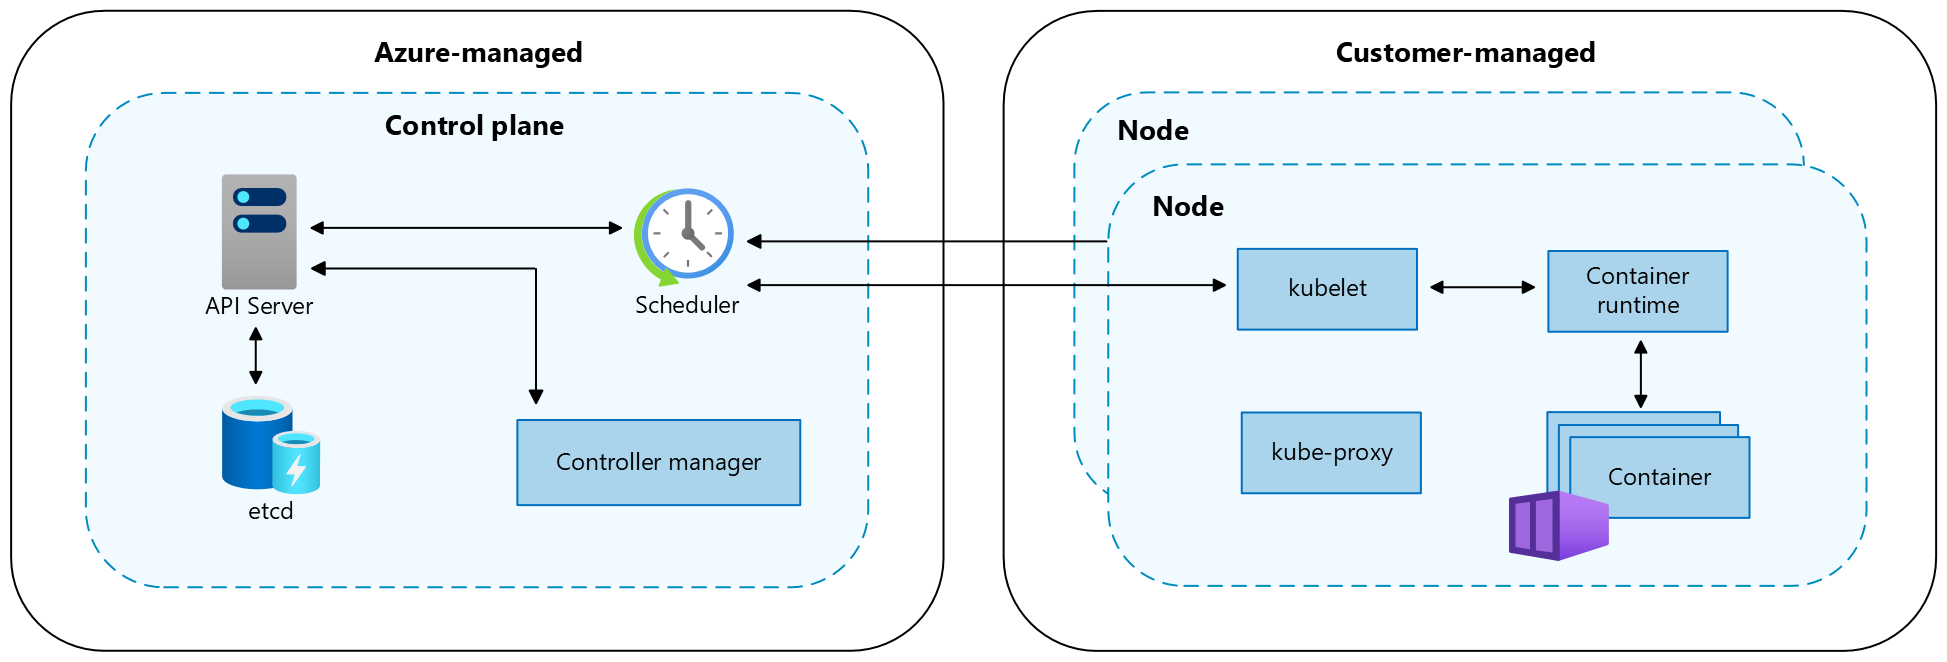
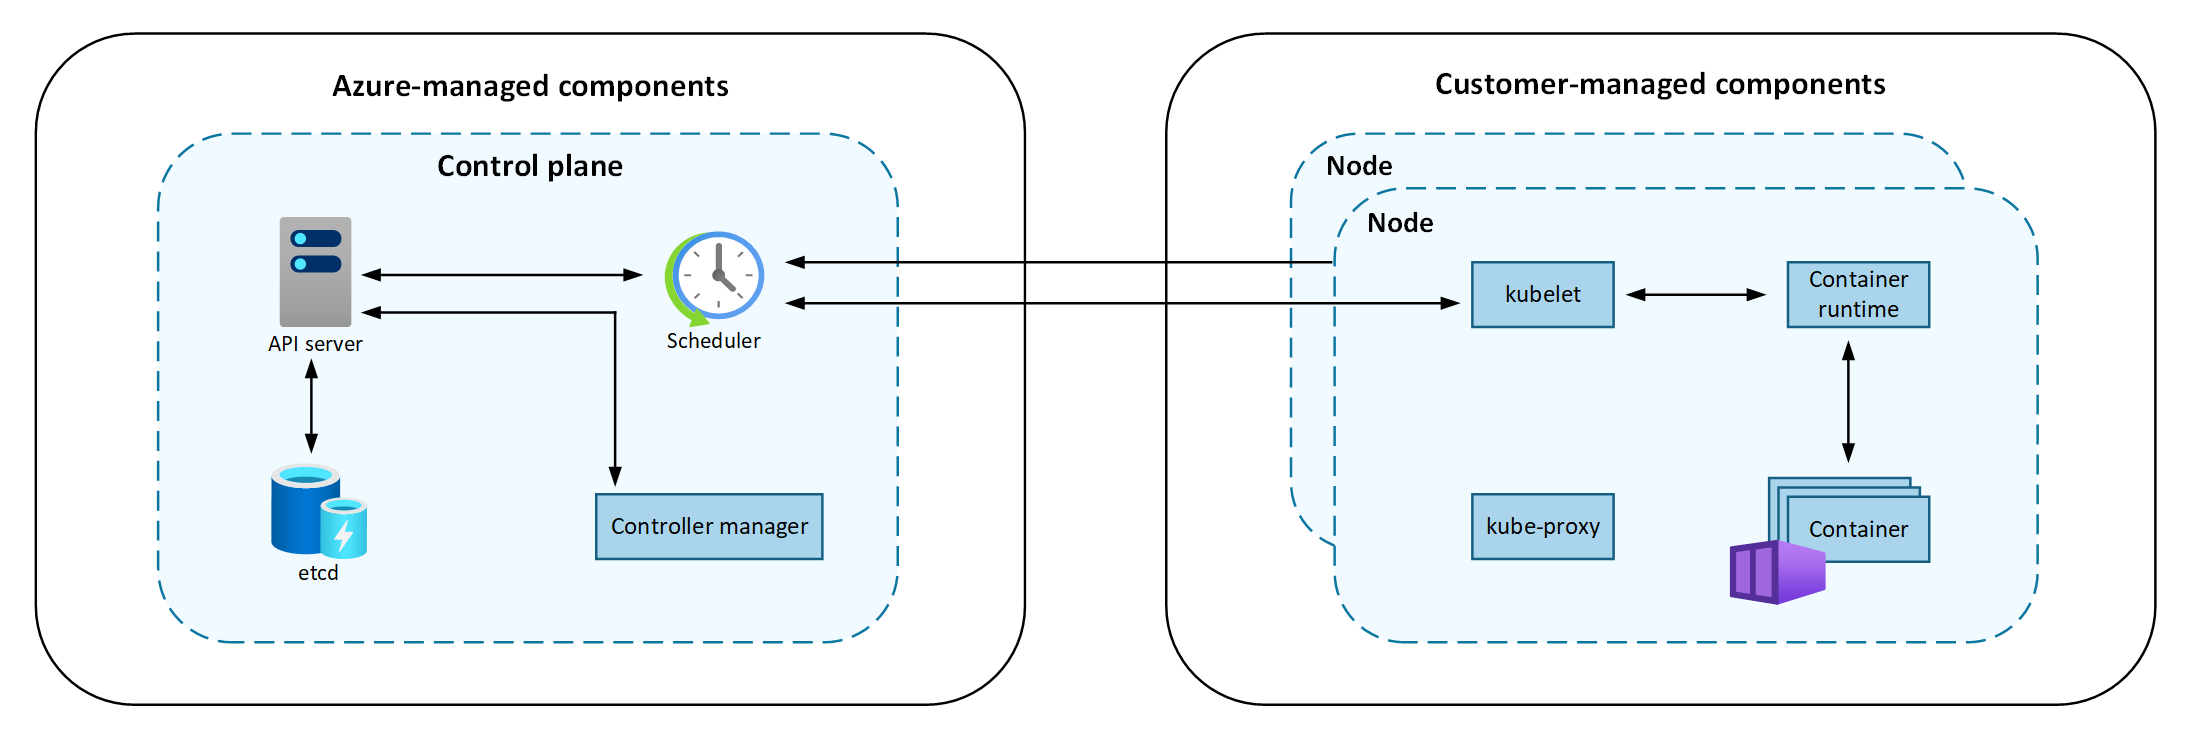
diagram and revisions to match template

diff --git a/articles/reliability/reliability-aks.md b/articles/reliability/reliability-aks.md
@@ -1,18 +1,20 @@
 ---
 title: Reliability in Azure Kubernetes Service (AKS)
-description: Learn about how to deploy reliable workloads in Azure Kubernetes Service (AKS), including availability zones and multiple-region deployments.
+description: Find out about how to deploy reliable workloads in Azure Kubernetes Service (AKS), including availability zones and multi-region deployments.
 author: schaffererin
 ms.author: schaffererin
 ms.topic: reliability-article
-ms.custom: subject-reliability, references_regions #Required  - use references_regions if specific regions are mentioned.
+ms.custom: subject-reliability
 ms.service: azure-kubernetes-service
 ms.date: 03/18/2025
-#Customer intent: As an engineer who manages business continuity, I want to understand how AKS works from a reliability perspective and plan disaster recovery strategies that align with the processes that Azure services follow in different scenarios.
+#Customer intent: As an engineer responsible for business continuity, I want to understand the details of how AKS works from a reliability perspective and plan disaster recovery strategies in alignment with the exact processes that Azure services follow during different kinds of situations.
 ---
 
 # Reliability in Azure Kubernetes Service (AKS)
 
-This article describes reliability support in [Azure Kubernetes Service (AKS)](/azure/aks/what-is-aks). It addresses zone resiliency, [availability zones](./availability-zones-overview.md), and multiple-region deployments.
+This article describes reliability support in [Azure Kubernetes Service (AKS)](/azure/aks/what-is-aks), covering intra-regional resiliency via [availability zones](#availability-zone-support) and [multi-region deployments](#multi-region-support).
+
+Resiliency is a shared responsibility between you and Microsoft and so this article also covers ways for you to create a resilient solution that meets your needs.
 
 ## Production deployment recommendations
 
@@ -107,15 +109,17 @@ There's no extra charge to enable availability zone support in AKS. You pay for 
 
 - You can't disable availability zone support after you create a cluster. Instead, you need to create a new cluster with availability zone support disabled and delete the old one.
 
-### Normal operations
+### Traffic routing between zones
 
-- **Traffic routing between zones:** When you deploy an AKS cluster that uses availability zones, it's important to ensure that your networking components are also zone resilient. Depending on the load balancers and other networking components that you use, you might need to explicitly configure components to route traffic to the correct nodes in the correct zones and to respond to zone outages. For more information, see [Zone resiliency considerations for AKS](/azure/aks/aks-zone-resiliency).
+When you deploy an AKS cluster that uses availability zones, it's important to ensure that your networking components are also zone resilient. Depending on the load balancers and other networking components that you use, you might need to explicitly configure components to route traffic to the correct nodes in the correct zones and to respond to zone outages. For more information, see [Zone resiliency considerations for AKS](/azure/aks/aks-zone-resiliency).
 
-- **Data replication between zones:** If you run a stateless workload, you should use managed Azure services, such [Azure databases](https://azure.microsoft.com/products/category/databases/), [Azure Cache for Redis](/azure/azure-cache-for-redis/cache-overview), or [Azure Storage](https://azure.microsoft.com/products/category/storage/) to store the application data. By using these services, you can ensure that your traffic can be moved across nodes and zones without risking data loss or affecting the user experience. You can use Kubernetes [Deployments](https://kubernetes.io/docs/concepts/workloads/controllers/deployment/), [Services](https://kubernetes.io/docs/concepts/services-networking/service/), and [Health Probes](https://kubernetes.io/docs/tasks/configure-pod-container/configure-liveness-readiness-startup-probes/) to manage stateless pods and ensure even distribution across zones.
+### Data replication between zones 
+
+If you run a stateless workload, you should use managed Azure services, such [Azure databases](https://azure.microsoft.com/products/category/databases/), [Azure Cache for Redis](/azure/azure-cache-for-redis/cache-overview), or [Azure Storage](https://azure.microsoft.com/products/category/storage/) to store the application data. By using these services, you can ensure that your traffic can be moved across nodes and zones without risking data loss or affecting the user experience. You can use Kubernetes [Deployments](https://kubernetes.io/docs/concepts/workloads/controllers/deployment/), [Services](https://kubernetes.io/docs/concepts/services-networking/service/), and [Health Probes](https://kubernetes.io/docs/tasks/configure-pod-container/configure-liveness-readiness-startup-probes/) to manage stateless pods and ensure even distribution across zones.
 
     If you need to store state within your cluster by using Azure disks, use Azure zone-redundant storage to ensure that your data is replicated across multiple availability zones. For more information, see [Choose the right disk type based on application needs](/azure/aks/aks-zone-resiliency#make-your-storage-disk-decision).
 
-### Zone-down scenarios
+### Zone-down experience
 
 - **Detection and response:** When a zone outage occurs, the control plane automatically fails over. If your node pools use availability zones and follow [zone resiliency best practices](#considerations), you can expect AKS to bring up nodes and replicas in the zones that are up and running. AKS does this task automatically when you use managed solutions like cluster autoscaler or NAP. Without autoscaling, nodes and replicas remain in the *Pending* state and wait for manual intervention to scale up the node pool. 
 
@@ -152,11 +156,11 @@ You can test your resiliency to availability zone failures by using the followin
 - [Cordon and drain nodes in a single availability zone](/azure/aks/aks-zone-resiliency#method-1-cordon-and-drain-nodes-in-a-single-az)
 - [Simulate an availability zone failure by using Azure Chaos Studio](/azure/aks/aks-zone-resiliency#method-2-simulate-an-az-failure-using-azure-chaos-studio)
 
-## Multiple-region support
+## Multi-region support
 
 AKS clusters are single-region resources. If the region is unavailable, your AKS cluster is also unavailable.
 
-### Alternative multiple-region approaches
+### Alternative multi-region approaches
 
 If you need to deploy your Kubernetes workload to multiple Azure regions, you have two options to manage the orchestration of these clusters.
 
@@ -181,13 +185,13 @@ For more information, see the following articles:
 - [What is Azure Kubernetes Service backup?](/azure/backup/azure-kubernetes-service-backup-overview)
 - [Back up AKS by using Azure Backup](/azure/backup/azure-kubernetes-service-cluster-backup)
 
-For most solutions, you shouldn't rely exclusively on backups. Instead, use the other capabilities described in this guide to support your resiliency requirements. Strive to use stateless clusters that minimize the need for backup. Store data in external storage systems and databases instead of within your cluster.
+For most solutions, you shouldn't rely exclusively on backups. Instead, use the other capabilities described in this guide to support your resiliency requirements. However, backups protect against some risks that other approaches don't. For more information, see [Redundancy, replication, and backup](concept-redundancy-replication-backup.md).
 
-If you maintain state in your cluster, backups protect against some risks that other approaches don't. For more information, see [Redundancy, replication, and backup](concept-redundancy-replication-backup.md).
+Strive to use stateless clusters that minimize the need for backup. Store data in external storage systems and databases instead of within your cluster.
 
-## Service-level agreement and pricing tiers
+## Service-level agreement
 
-The service-level agreement (SLA) for Azure Logic Apps describes the expected availability of the service. This agreement also describes the conditions to meet to achieve this expectation. To understand these conditions, review [SLAs for online services](https://www.microsoft.com/licensing/docs/view/Service-Level-Agreements-SLA-for-Online-Services).
+The service-level agreement (SLA) for Azure Logic Apps describes the expected availability of the service and the conditions that must be met to achieve that availability expectation. For more information, see [SLAs for online services](https://www.microsoft.com/licensing/docs/view/Service-Level-Agreements-SLA-for-Online-Services).
 
 AKS offers three pricing tiers for cluster management: **Free**, **Standard**, and **Premium**. For more information, see [Free, Standard, and Premium pricing tiers for AKS cluster management](/azure/aks/free-standard-pricing-tiers). The Free tier enables you to use AKS to test your workloads. The Standard and Premium tiers are designed for production workloads. When you deploy an AKS cluster that has availability zones enabled, the uptime percentage defined in the SLA increases. However, the SLA applies only if you deploy a cluster in the Standard or Premium pricing tier.
 
